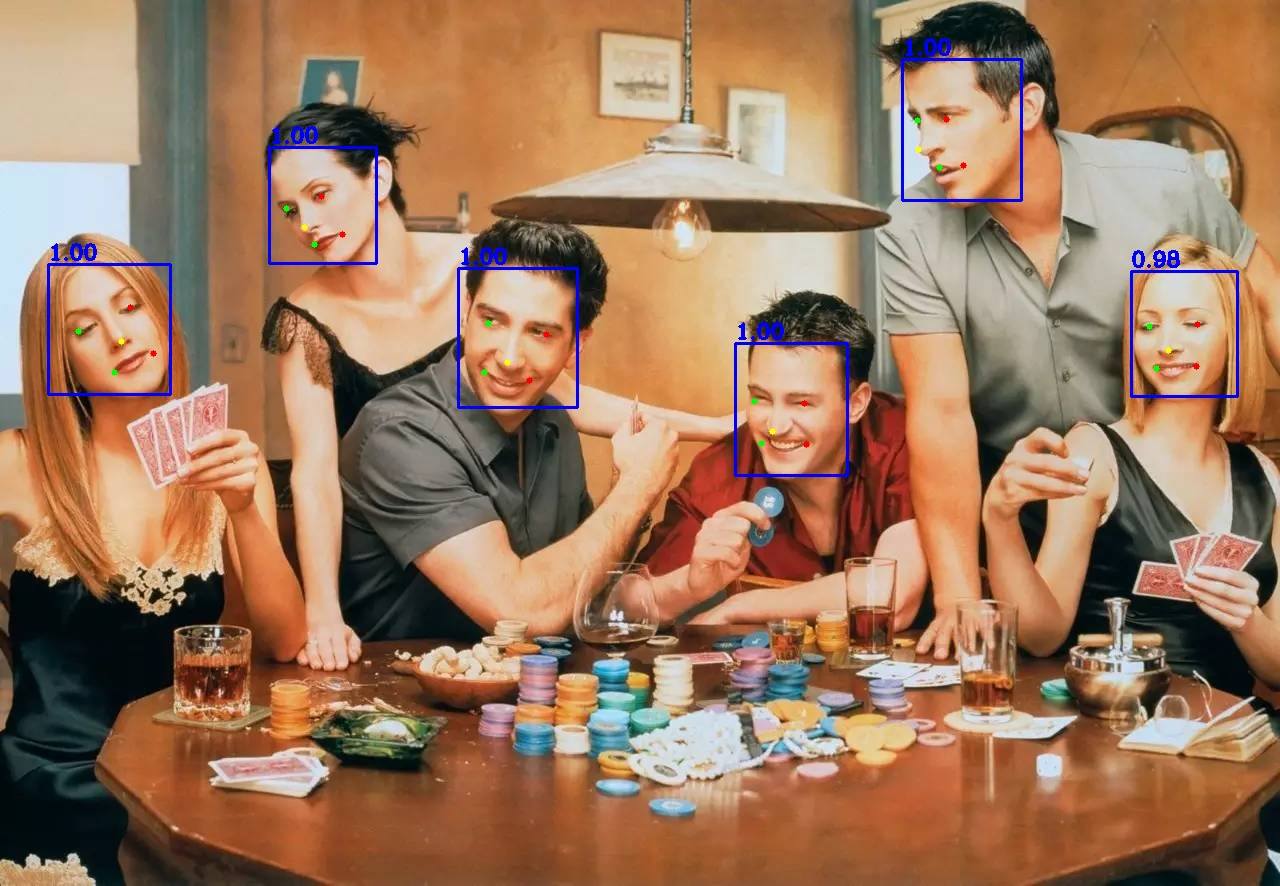
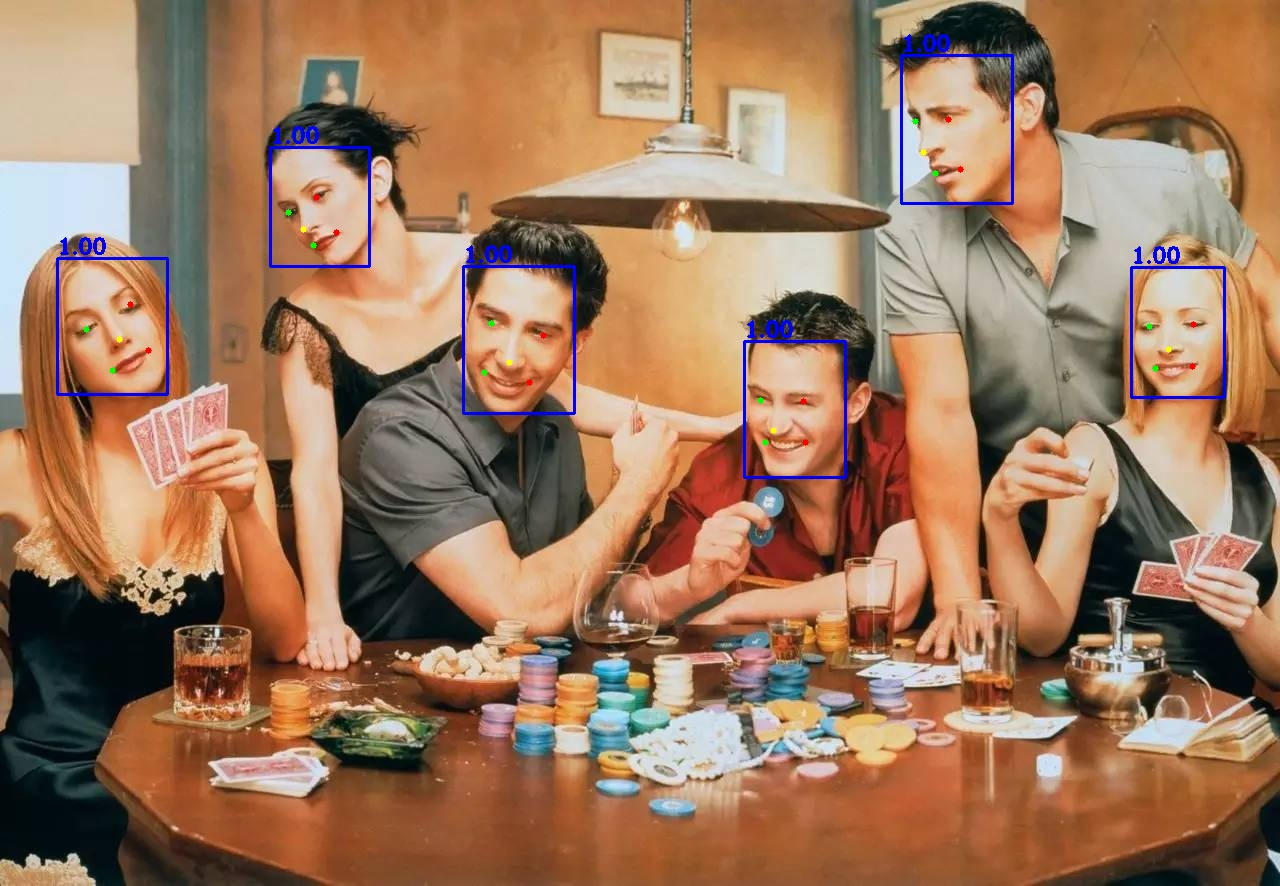
RetinaFace keep aspect ratio

diff --git a/RetinaFace/RetinaFace.cpp b/RetinaFace/RetinaFace.cpp
@@ -134,20 +134,25 @@ void RetinaFace::EngineInference(const std::vector<std::string> &image_list, con
             std::cout << "device2host" << std::endl;
             std::cout << "post process" << std::endl;
             auto r_start = std::chrono::high_resolution_clock::now();
-            float out_1[outSize[0] * BATCH_SIZE];
-            float out_2[outSize[1] * BATCH_SIZE];
-            float out_3[outSize[2] * BATCH_SIZE];
+            auto *out_1 = new float[outSize[0] * BATCH_SIZE];
+            auto *out_2 = new float[outSize[1] * BATCH_SIZE];
+            auto *out_3 = new float[outSize[2] * BATCH_SIZE];
             cudaMemcpyAsync(out_1, buffers[1], bufferSize[1], cudaMemcpyDeviceToHost, stream);
             cudaMemcpyAsync(out_2, buffers[2], bufferSize[2], cudaMemcpyDeviceToHost, stream);
             cudaMemcpyAsync(out_3, buffers[3], bufferSize[3], cudaMemcpyDeviceToHost, stream);
             cudaStreamSynchronize(stream);
-            auto faces = postProcess(vec_Mat, out_1, out_2, out_3, outSize[0], outSize[1], outSize[3]);
+            auto faces = postProcess(vec_Mat, out_1, out_2, out_3, outSize[0], outSize[1], outSize[2]);
+            delete[] out_1;
+            delete[] out_2;
+            delete[] out_3;
             auto r_end = std::chrono::high_resolution_clock::now();
             float total_res = std::chrono::duration<float, std::milli>(r_end - r_start).count();
             std::cout << "Post process take: " << total_res << " ms." << std::endl;
             for (int i = 0; i < (int)vec_Mat.size(); i++)
             {
                 auto org_img = vec_Mat[i];
+                if (!org_img.data)
+                    continue;
                 auto rects = faces[i];
                 cv::cvtColor(org_img, org_img, cv::COLOR_BGR2RGB);
                 for(const auto &rect : rects)
@@ -210,8 +215,11 @@ std::vector<float> RetinaFace::prepareImage(std::vector<cv::Mat> &vec_img) {
     {
         if (!src_img.data)
             continue;
-        cv::Mat flt_img;
-        cv::resize(src_img, flt_img, cv::Size(IMAGE_WIDTH, IMAGE_HEIGHT));
+        float ratio = float(IMAGE_WIDTH) / float(src_img.cols) < float(IMAGE_HEIGHT) / float(src_img.rows) ? float(IMAGE_WIDTH) / float(src_img.cols) : float(IMAGE_HEIGHT) / float(src_img.rows);
+        cv::Mat flt_img = cv::Mat::zeros(cv::Size(IMAGE_WIDTH, IMAGE_HEIGHT), CV_8UC3);
+        cv::Mat rsz_img;
+        cv::resize(src_img, rsz_img, cv::Size(), ratio, ratio);
+        rsz_img.copyTo(flt_img(cv::Rect(0, 0, rsz_img.cols, rsz_img.rows)));
         flt_img.convertTo(flt_img, CV_32FC3);
 
         //HWC TO CHW
@@ -238,8 +246,7 @@ std::vector<std::vector<RetinaFace::FaceRes>> RetinaFace::postProcess(const std:
         float *out_1 = output_1 + index * outSize_1;
         float *out_2 = output_2 + index * outSize_2;
         float *out_3 = output_3 + index * outSize_3;
-        float width_scale  = (float)src_img.cols / (float)IMAGE_WIDTH;
-        float height_scale = (float)src_img.rows / (float)IMAGE_HEIGHT;
+        float ratio = float(src_img.cols) / float(IMAGE_WIDTH) > float(src_img.rows) / float(IMAGE_HEIGHT)  ? float(src_img.cols) / float(IMAGE_WIDTH) : float(src_img.rows) / float(IMAGE_HEIGHT);
 
         cv::Mat score_matrix = cv::Mat(out1_step, 1, CV_32FC1, out_1);
         cv::Mat bbox_matrix = cv::Mat(out2_step / bbox_head, bbox_head, CV_32FC1, out_2);
@@ -254,22 +261,22 @@ std::vector<std::vector<RetinaFace::FaceRes>> RetinaFace::postProcess(const std:
                 auto *bbox = bbox_matrix.ptr<float>(item);
                 auto *mark = landmark_matrix.ptr<float>(item);
 
-                headbox.face_box.x = (anchor[0] + bbox[0] * anchor[2]) * width_scale;
-                headbox.face_box.y = (anchor[1] + bbox[1] * anchor[3]) * height_scale;
-                headbox.face_box.w = anchor[2] * exp(bbox[2]) * width_scale;
-                headbox.face_box.h = anchor[3] * exp(bbox[3]) * height_scale;
+                headbox.face_box.x = (anchor[0] + bbox[0] * anchor[2]) * ratio;
+                headbox.face_box.y = (anchor[1] + bbox[1] * anchor[3]) * ratio;
+                headbox.face_box.w = anchor[2] * exp(bbox[2]) * ratio;
+                headbox.face_box.h = anchor[3] * exp(bbox[3]) * ratio;
 
                 headbox.keypoints = {
-                        cv::Point2f((anchor[0] + mark[0] * anchor[2]) * width_scale,
-                                    (anchor[1] + mark[1] * anchor[3]) * height_scale),
-                        cv::Point2f((anchor[0] + mark[2] * anchor[2]) * width_scale,
-                                    (anchor[1] + mark[3] * anchor[3]) * height_scale),
-                        cv::Point2f((anchor[0] + mark[4] * anchor[2]) * width_scale,
-                                    (anchor[1] + mark[5] * anchor[3]) * height_scale),
-                        cv::Point2f((anchor[0] + mark[6] * anchor[2]) * width_scale,
-                                    (anchor[1] + mark[7] * anchor[3]) * height_scale),
-                        cv::Point2f((anchor[0] + mark[8] * anchor[2]) * width_scale,
-                                    (anchor[1] + mark[9] * anchor[3]) * height_scale)
+                        cv::Point2f((anchor[0] + mark[0] * anchor[2]) * ratio,
+                                    (anchor[1] + mark[1] * anchor[3]) * ratio),
+                        cv::Point2f((anchor[0] + mark[2] * anchor[2]) * ratio,
+                                    (anchor[1] + mark[3] * anchor[3]) * ratio),
+                        cv::Point2f((anchor[0] + mark[4] * anchor[2]) * ratio,
+                                    (anchor[1] + mark[5] * anchor[3]) * ratio),
+                        cv::Point2f((anchor[0] + mark[6] * anchor[2]) * ratio,
+                                    (anchor[1] + mark[7] * anchor[3]) * ratio),
+                        cv::Point2f((anchor[0] + mark[8] * anchor[2]) * ratio,
+                                    (anchor[1] + mark[9] * anchor[3]) * ratio)
                 };
                 result.push_back(headbox);
             }

diff --git a/RetinaFace/README.md b/RetinaFace/README.md
@@ -6,8 +6,13 @@
 - **get pretrained model:** [BaiduDrive](https://pan.baidu.com/s/1C6nKq122gJxRhb37vK0_LQ) or [Dropbox](https://www.dropbox.com/s/53ftnlarhyrpkg2/retinaface-R50.zip?dl=0)
 
 ## 2.Export ONNX Model
+- export resnet50 model
 ```
 python3 export_onnx.py
+```
+- export mobilenet 0.25 model
+```
+python3 export_onnx.py  --network mnet --imagenet ./model/mobilenet_0_25 --pretrained ./model/mnet.25 --transpose ./model/mnet_retinaface --onnx mnet_retinaface.onnx --input_shape 1 3 640 640
 ```
 
 ## 3.Build RetinaFace_trt Project
